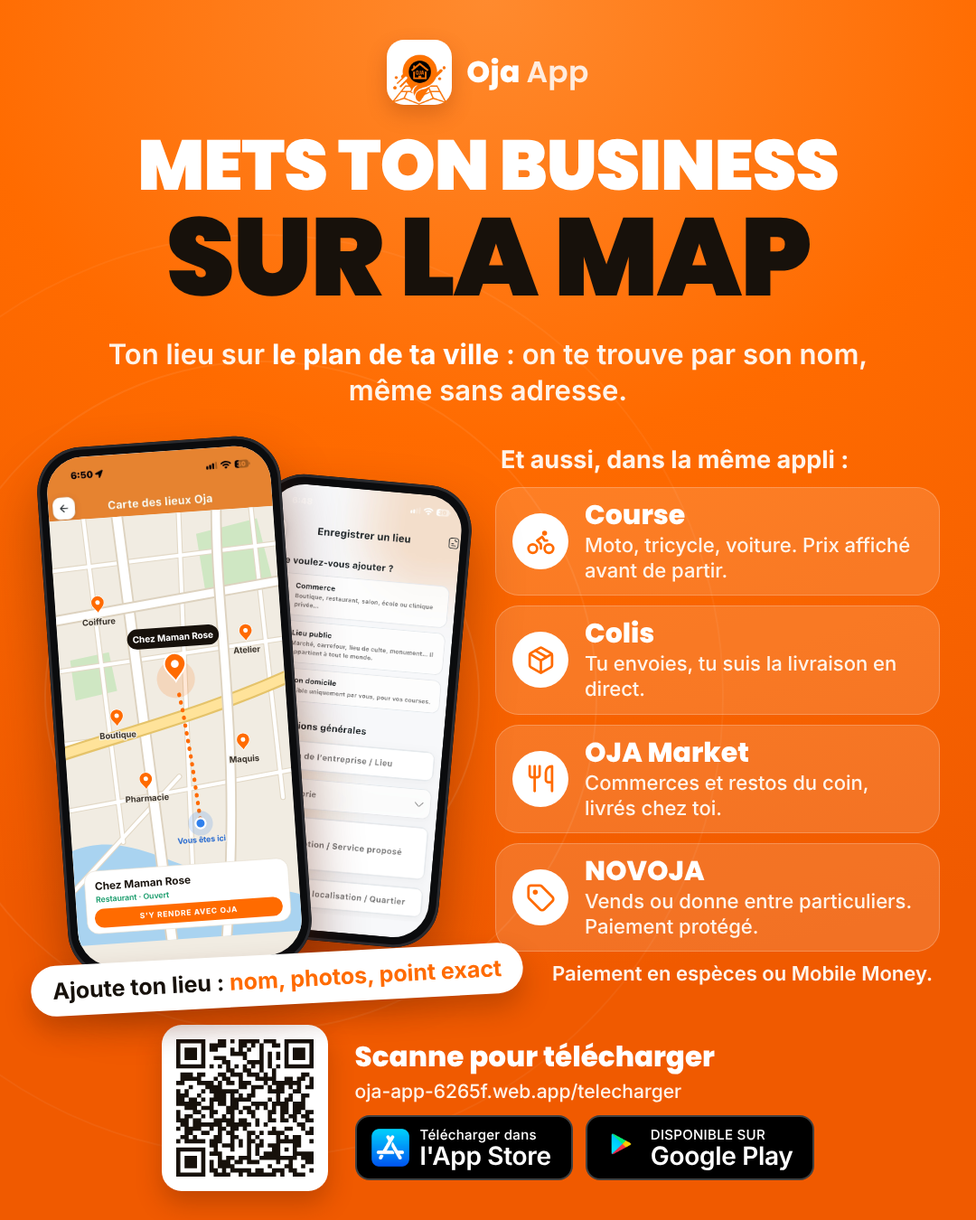
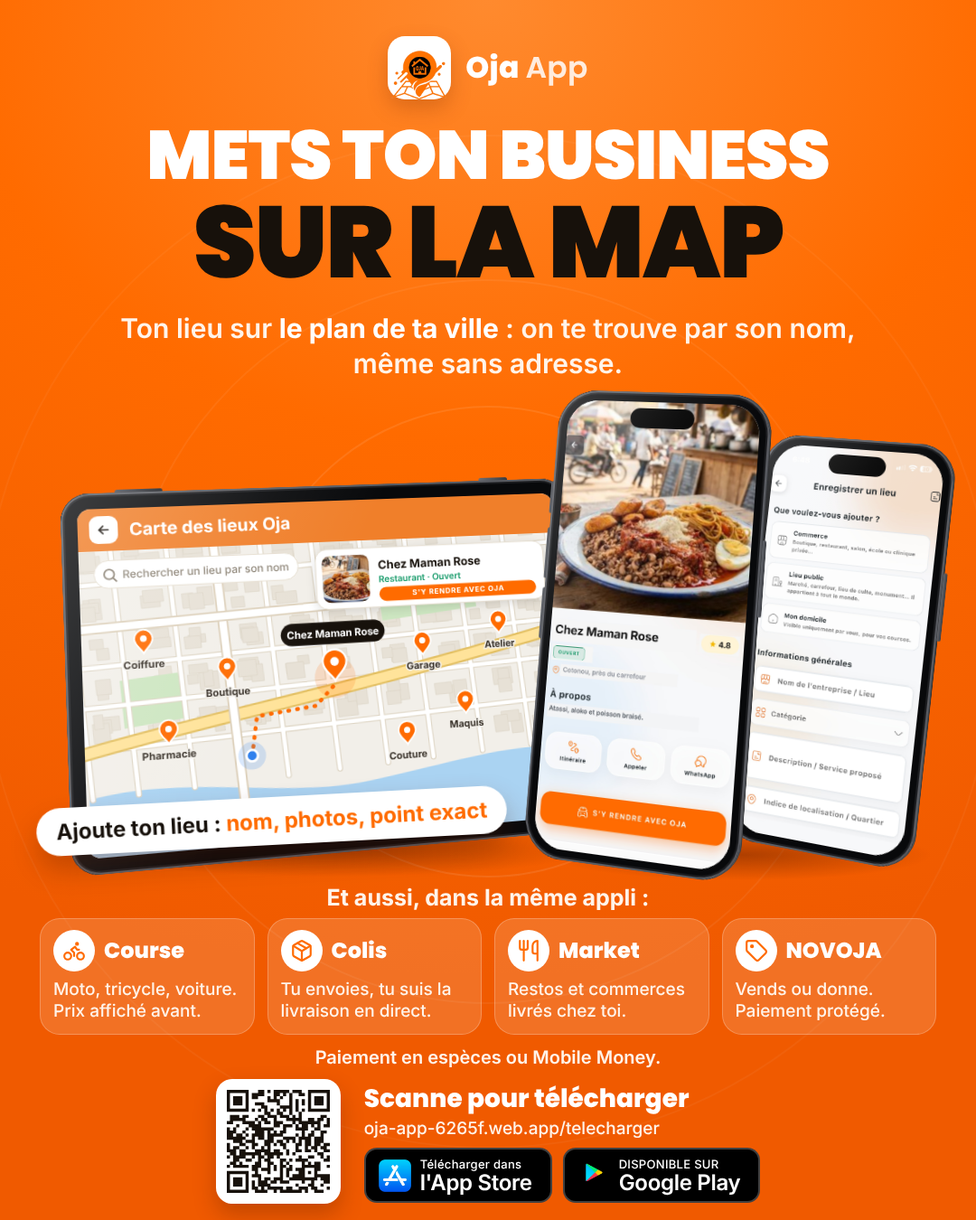
Pub Facebook : vrais écrans sur les téléphones, appareils en 3D, tablette avec la map, titre « sur la map » et QR code
Claude-Session: https://claude.ai/code/session_013hXBLf1amJ3CRzgYm5RBGS

diff --git a/motion/pub_facebook.html b/motion/pub_facebook.html
@@ -3,14 +3,16 @@
 <link rel="stylesheet" href="fonts/local.css">
 <style>
 /* Facebook / Instagram ad for Oja App, after the « Griokids » ad Derrick sent: flat brand colour, logo, one big line,
-   the app on real phones, store badges. A real layout, not a generated picture: real logo, real screens, real type.
+   the app on real devices, store badges. A real layout, not a generated picture: real logo, real screens, real type.
    Derrick, 9 Nov 2026:
-   - every feature must be understood, and putting yourself on the map always comes FIRST;
-   - « carte » alone is unclear: it must be obvious that it is the MAP. So the headline says « sur la map », the line under it
-     « le plan de ta ville », and the front phone shows the real « Carte des lieux Oja » screen (its header) over a drawn
-     street map: roads, lagoon, pins with fictitious place names, « Vous êtes ici », the way to « Chez Maman Rose »;
+   - every feature must be understood; putting yourself on the map always comes FIRST;
+   - « carte » alone is unclear: the headline says « sur la map », the line under it « le plan de ta ville », and the tablet
+     shows the map (drawn: streets, lagoon, pins with fictitious place names, « Vous êtes ici », the way to « Chez Maman Rose »);
+   - the phones keep the real screens he preferred: the place card « Chez Maman Rose » (fictitious) and « Enregistrer un lieu »;
+   - phones and tablet must feel like real 3D devices: tilted in perspective, with a body you can see (stacked layers),
+     a metal rim, side buttons, a glass reflection and a shadow on the ground;
    - a QR code to https://oja-app-6265f.web.app/telecharger (pubs/qr_telecharger.svg, made with segno, checked by decoding).
-   Both rules are in marketing/kit/09-regles-et-mentions.md.
+   The rules are in marketing/kit/09-regles-et-mentions.md.
    #feed = 1080 x 1350 (4:5, news feed), #story = 1080 x 1920 (9:16: the same block, below the top 250 px, above the bottom 340 px).
    Built by src/pub_facebook_build.js. */
 :root { --or: #FF6B00; --or2: #F05A00; --ink: #17110B; --cream: #FFF4EA; }
@@ -24,125 +26,111 @@ body.story .ad { height: 1920px; }
 body.story .block { top: 250px; }
 svg.bg { position: absolute; left: 0; top: 0; width: 1080px; height: 1330px; }
 /* header */
-.brand { position: absolute; top: 34px; left: 0; right: 0; display: flex; justify-content: center; align-items: center; gap: 16px; }
-.icon { width: 72px; height: 72px; border-radius: 19px; background: #fff; display: grid; place-items: center; box-shadow: 0 10px 22px rgba(120, 40, 0, .25); }
+.brand { position: absolute; top: 30px; left: 0; right: 0; display: flex; justify-content: center; align-items: center; gap: 16px; }
+.icon { width: 70px; height: 70px; border-radius: 19px; background: #fff; display: grid; place-items: center; box-shadow: 0 10px 22px rgba(120, 40, 0, .25); }
 .icon img { width: 118%; height: 118%; object-fit: contain; margin-top: 6%; }
 .brand b { font: 800 33px 'Poppins'; letter-spacing: .3px; }
 .brand b span { font-weight: 600; opacity: .85; }
-h1 { position: absolute; top: 134px; left: 0; right: 0; text-align: center; font: 900 78px/1 'Poppins'; letter-spacing: -1.2px; text-transform: uppercase; }
-h1 .dark { display: block; color: var(--ink); font-size: 122px; letter-spacing: -2px; margin-top: 2px; }
-.sub { position: absolute; top: 362px; left: 100px; right: 100px; text-align: center; font: 600 31px/1.3 'Inter'; color: var(--cream); }
+h1 { position: absolute; top: 124px; left: 0; right: 0; text-align: center; font: 900 76px/1 'Poppins'; letter-spacing: -1.2px; text-transform: uppercase; }
+h1 .dark { display: block; color: var(--ink); font-size: 112px; letter-spacing: -2px; margin-top: 2px; }
+.sub { position: absolute; top: 334px; left: 100px; right: 100px; text-align: center; font: 600 30px/1.3 'Inter'; color: var(--cream); }
 .sub b { color: #fff; font-weight: 800; }
-/* the map feature: the map screen in front, « Enregistrer un lieu » behind */
-.phone { position: absolute; border-radius: 50px; background: #0B0C0E; padding: 11px; box-shadow: 0 34px 60px rgba(90, 25, 0, .45), 0 0 0 3px #2A2B2F inset; }
-.phone > img, .phone .screen { display: block; width: 100%; height: 100%; object-fit: cover; object-position: top; border-radius: 40px; overflow: hidden; }
-.screen { background: #F1ECE2; position: relative; }
-.screen img { display: block; width: 100%; }
-.screen svg { display: block; width: 100%; }
-.p1 { left: 58px; top: 478px; width: 270px; height: 587px; transform: rotate(-4deg); z-index: 2; }
-.p2 { left: 268px; top: 520px; width: 236px; height: 513px; transform: rotate(5deg); z-index: 1; }
-.tag { position: absolute; left: 34px; top: 1046px; z-index: 3; background: #fff; color: var(--ink); border-radius: 999px; padding: 13px 24px;
-  font: 700 25px 'Inter'; white-space: nowrap; transform: rotate(-3deg); box-shadow: 0 16px 30px rgba(90, 25, 0, .3); }
+
+/* ---------- the devices, in 3D ---------- */
+.stage { position: absolute; left: 0; top: 422px; width: 1080px; height: 540px; perspective: 1700px; perspective-origin: 560px 120px; }
+.dev { position: absolute; transform-style: preserve-3d; }
+.dev .layer { position: absolute; inset: 0; border-radius: inherit; }
+.dev .front { position: absolute; inset: 0; border-radius: inherit; background: #08090B; overflow: hidden;
+  box-shadow: inset 0 0 0 2px #5A5C62, inset 0 0 0 4px #1B1C1F; }
+.dev .scr { position: absolute; overflow: hidden; background: #F2EFE9; }
+.dev .scr > img { display: block; width: 100%; height: 100%; object-fit: cover; object-position: top; }
+.dev .glare { position: absolute; inset: 0; border-radius: inherit; pointer-events: none;
+  background: linear-gradient(118deg, rgba(255, 255, 255, .22) 0%, rgba(255, 255, 255, .06) 30%, rgba(255, 255, 255, 0) 46%); }
+.dev .island { position: absolute; left: 50%; top: 18px; width: 30%; height: 22px; margin-left: -15%; border-radius: 12px; background: #000; }
+.dev .btn { position: absolute; width: 5px; border-radius: 3px; background: linear-gradient(90deg, #6B6E75, #3A3C41); }
+.ground { position: absolute; border-radius: 50%; background: radial-gradient(closest-side, rgba(80, 22, 0, .42), rgba(80, 22, 0, 0)); }
+/* the tablet (landscape) */
+.tab { left: 84px; top: 104px; width: 566px; height: 404px; border-radius: 30px; transform: rotateY(14deg) rotateX(7deg) rotateZ(-2deg); }
+.tab .scr { left: 17px; top: 17px; right: 17px; bottom: 17px; border-radius: 14px; }
+/* the phones */
+.ph1 { left: 606px; top: 6px; width: 238px; height: 516px; border-radius: 44px; transform: rotateY(-20deg) rotateX(6deg) rotateZ(3deg) translateZ(40px); }
+.ph2 { left: 820px; top: 52px; width: 212px; height: 460px; border-radius: 40px; transform: rotateY(-26deg) rotateX(6deg) rotateZ(5deg); }
+.ph1 .scr, .ph2 .scr { left: 11px; top: 11px; right: 11px; bottom: 11px; border-radius: 34px; }
+/* the map in the tablet */
+.mapbar { position: absolute; left: 0; right: 0; top: 0; height: 46px; background: #F07F2A; display: flex; align-items: center; gap: 12px; padding: 0 12px; }
+.mapbar i { width: 30px; height: 30px; border-radius: 9px; background: #fff; display: grid; place-items: center; }
+.mapbar b { font: 700 19px 'Inter'; color: #fff; }
+.tab svg.map { position: absolute; left: 0; top: 46px; width: 532px; height: 324px; }
+.tag { position: absolute; left: 40px; top: 872px; z-index: 5; background: #fff; color: var(--ink); border-radius: 999px; padding: 12px 22px;
+  font: 700 24px 'Inter'; white-space: nowrap; transform: rotate(-3deg); box-shadow: 0 16px 30px rgba(90, 25, 0, .3); }
 .tag em { font-style: normal; color: var(--or); }
-/* the other services */
-.more { position: absolute; left: 548px; top: 482px; width: 492px; }
-.more h2 { font: 700 27px 'Inter'; color: var(--cream); margin: 0 0 14px 6px; }
-.svc { display: flex; align-items: center; gap: 18px; background: rgba(255, 255, 255, .14); border: 1.5px solid rgba(255, 255, 255, .22);
-  border-radius: 26px; padding: 13px 18px; margin-bottom: 11px; }
-.svc i { width: 62px; height: 62px; border-radius: 50%; background: #fff; display: grid; place-items: center; flex: none; }
-.svc svg { width: 33px; height: 33px; stroke: var(--or); fill: none; stroke-width: 2; stroke-linecap: round; stroke-linejoin: round; }
-.svc b { display: block; font: 800 30px/1.1 'Poppins'; }
-.svc span { display: block; margin-top: 3px; font: 500 22px/1.28 'Inter'; color: var(--cream); }
-.pay { margin: 2px 8px 0 0; text-align: right; font: 600 22px 'Inter'; color: var(--cream); }
-/* download: QR code + store badges */
-.dl { position: absolute; left: 0; right: 0; top: 1124px; display: flex; justify-content: center; align-items: center; gap: 30px; }
-.qr { width: 184px; height: 184px; background: #fff; border-radius: 22px; padding: 16px; box-shadow: 0 14px 28px rgba(90, 25, 0, .3); }
+
+/* ---------- the other services, in a row ---------- */
+.more h2 { position: absolute; left: 0; right: 0; top: 968px; text-align: center; font: 700 25px 'Inter'; color: var(--cream); }
+.svcs { position: absolute; left: 44px; right: 44px; top: 1006px; display: grid; grid-template-columns: repeat(4, 1fr); gap: 14px; }
+.svc { background: rgba(255, 255, 255, .14); border: 1.5px solid rgba(255, 255, 255, .24); border-radius: 22px; padding: 12px 14px 13px; }
+.svc .t { display: flex; align-items: center; gap: 10px; }
+.svc i { width: 46px; height: 46px; border-radius: 50%; background: #fff; display: grid; place-items: center; flex: none; }
+.svc svg { width: 26px; height: 26px; stroke: var(--or); fill: none; stroke-width: 2; stroke-linecap: round; stroke-linejoin: round; }
+.svc b { font: 800 24px/1.05 'Poppins'; }
+.svc span { display: block; margin-top: 8px; font: 500 19px/1.25 'Inter'; color: var(--cream); }
+.pay { position: absolute; left: 0; right: 0; top: 1148px; text-align: center; font: 600 20px 'Inter'; color: var(--cream); }
+
+/* ---------- download: QR code + store badges ---------- */
+.dl { position: absolute; left: 0; right: 0; top: 1184px; display: flex; justify-content: center; align-items: center; gap: 26px; }
+.qr { width: 138px; height: 138px; background: #fff; border-radius: 18px; padding: 12px; box-shadow: 0 12px 24px rgba(90, 25, 0, .3); }
 .qr img { display: block; width: 100%; height: 100%; }
-.dl h3 { font: 800 31px 'Poppins'; }
-.dl p { font: 500 21px 'Inter'; color: var(--cream); margin: 2px 0 14px; }
-.stores { display: flex; gap: 14px; }
-.badge { display: flex; align-items: center; gap: 12px; background: #000; border-radius: 16px; padding: 10px 22px 10px 16px; border: 2px solid rgba(255, 255, 255, .25); }
-.badge img { width: 42px; height: 42px; }
-.badge small { display: block; font: 500 15px 'Inter'; letter-spacing: .3px; }
-.badge b { display: block; font: 600 28px/1.05 'Inter'; letter-spacing: -.3px; }
+.dl h3 { font: 800 28px 'Poppins'; }
+.dl p { font: 500 19px 'Inter'; color: var(--cream); margin: 0 0 10px; }
+.stores { display: flex; gap: 12px; }
+.badge { display: flex; align-items: center; gap: 10px; background: #000; border-radius: 14px; padding: 8px 20px 8px 14px; border: 2px solid rgba(255, 255, 255, .25); }
+.badge img { width: 36px; height: 36px; }
+.badge small { display: block; font: 500 13px 'Inter'; letter-spacing: .3px; }
+.badge b { display: block; font: 600 24px/1.05 'Inter'; letter-spacing: -.3px; }
 </style></head>
 <body>
 <div class="ad"><div class="block">
   <svg class="bg" viewBox="0 0 1080 1330" aria-hidden="true">
     <g fill="none" stroke="#fff">
-      <circle cx="290" cy="760" r="240" stroke-opacity=".10" stroke-width="2"/>
-      <circle cx="290" cy="760" r="370" stroke-opacity=".07" stroke-width="2"/>
-      <circle cx="290" cy="760" r="510" stroke-opacity=".05" stroke-width="2"/>
+      <circle cx="540" cy="700" r="260" stroke-opacity=".09" stroke-width="2"/>
+      <circle cx="540" cy="700" r="400" stroke-opacity=".06" stroke-width="2"/>
+      <circle cx="540" cy="700" r="560" stroke-opacity=".045" stroke-width="2"/>
     </g>
   </svg>
   <div class="brand"><div class="icon"><img src="../video1/assets/logo-oja-carte.png" alt=""></div><b>Oja <span>App</span></b></div>
   <h1>Mets ton business<span class="dark">sur la map</span></h1>
   <p class="sub">Ton lieu sur <b>le plan de ta ville</b> : on te trouve par son nom, même sans adresse.</p>
 
-  <div class="phone p2"><img src="../video3/assets/app/ajout.jpg" alt=""></div>
-  <div class="phone p1"><div class="screen">
-    <img src="pubs/carte_entete.jpg" alt="">
-    <!-- a drawn street map (fictitious places), in place of the real map, which shows other people's businesses -->
-    <svg viewBox="0 0 400 760" aria-hidden="true">
-      <rect width="400" height="760" fill="#F1ECE2"/>
-      <path d="M260 40 l110 -20 l20 110 l-120 20z" fill="#CFE7C3"/>
-      <path d="M20 250 l70 -10 l10 70 l-75 12z" fill="#CFE7C3"/>
-      <path d="M0 590 C 90 560, 160 620, 250 650 S 400 690, 410 700 L410 770 L0 770Z" fill="#A9D3F0"/>
-      <text x="40" y="722" font-family="Inter" font-style="italic" font-size="17" fill="#5C8EBA">Lagune</text>
-      <g fill="none" stroke-linecap="round">
-        <g stroke="#E2D8C6" stroke-width="10">
-          <path d="M-20 270 L420 236"/><path d="M-20 520 L420 470"/><path d="M60 -20 L92 580"/><path d="M232 -20 L212 640"/>
-          <path d="M360 -20 L382 520"/><path d="M-20 90 L420 66"/><path d="M0 660 L200 470"/><path d="M-20 400 L130 392"/>
-        </g>
-        <g stroke="#FFFFFF" stroke-width="6.5">
-          <path d="M-20 270 L420 236"/><path d="M-20 520 L420 470"/><path d="M60 -20 L92 580"/><path d="M232 -20 L212 640"/>
-          <path d="M360 -20 L382 520"/><path d="M-20 90 L420 66"/><path d="M0 660 L200 470"/><path d="M-20 400 L130 392"/>
-        </g>
-        <path d="M120 -20 L168 780" stroke="#DDD2BF" stroke-width="22"/><path d="M120 -20 L168 780" stroke="#FFFFFF" stroke-width="16"/>
-        <path d="M-20 180 L420 132" stroke="#DDD2BF" stroke-width="20"/><path d="M-20 180 L420 132" stroke="#FFFFFF" stroke-width="14"/>
-        <path d="M-20 420 C 120 384, 260 360, 420 300" stroke="#E5C36A" stroke-width="24"/><path d="M-20 420 C 120 384, 260 360, 420 300" stroke="#FFE39A" stroke-width="17"/>
-        <path d="M300 -20 C 282 200, 318 400, 262 780" stroke="#DDD2BF" stroke-width="20"/><path d="M300 -20 C 282 200, 318 400, 262 780" stroke="#FFFFFF" stroke-width="14"/>
-        <!-- the way from « Vous êtes ici » to the place -->
-        <path d="M232 548 L224 446 L214 352 L208 312" stroke="#FF6B00" stroke-width="7" stroke-dasharray="1 13"/>
-      </g>
-      <g font-family="Inter" font-weight="700" font-size="15" fill="#3A332B" stroke="#F1ECE2" stroke-width="4" paint-order="stroke" text-anchor="middle">
-        <g transform="translate(76 168)"><path d="M0 0c-3-6-11-10-11-18a11 11 0 0 1 22 0c0 8-8 12-11 18z" fill="#FF6B00" stroke="#fff" stroke-width="2"/><circle cy="-18" r="4" fill="#fff" stroke="none"/><text y="22">Coiffure</text></g>
-        <g transform="translate(336 236)"><path d="M0 0c-3-6-11-10-11-18a11 11 0 0 1 22 0c0 8-8 12-11 18z" fill="#FF6B00" stroke="#fff" stroke-width="2"/><circle cy="-18" r="4" fill="#fff" stroke="none"/><text y="22">Atelier</text></g>
-        <g transform="translate(96 372)"><path d="M0 0c-3-6-11-10-11-18a11 11 0 0 1 22 0c0 8-8 12-11 18z" fill="#FF6B00" stroke="#fff" stroke-width="2"/><circle cy="-18" r="4" fill="#fff" stroke="none"/><text y="22">Boutique</text></g>
-        <g transform="translate(318 430)"><path d="M0 0c-3-6-11-10-11-18a11 11 0 0 1 22 0c0 8-8 12-11 18z" fill="#FF6B00" stroke="#fff" stroke-width="2"/><circle cy="-18" r="4" fill="#fff" stroke="none"/><text y="22">Maquis</text></g>
-        <g transform="translate(140 488)"><path d="M0 0c-3-6-11-10-11-18a11 11 0 0 1 22 0c0 8-8 12-11 18z" fill="#FF6B00" stroke="#fff" stroke-width="2"/><circle cy="-18" r="4" fill="#fff" stroke="none"/><text y="22">Pharmacie</text></g>
-      </g>
-      <!-- the place, selected -->
-      <g transform="translate(206 300)">
-        <circle cy="-4" r="34" fill="#FF6B00" opacity=".16"/>
-        <path d="M0 0c-5-10-19-17-19-31a19 19 0 0 1 38 0c0 14-14 21-19 31z" fill="#FF6B00" stroke="#fff" stroke-width="3"/><circle cy="-31" r="7" fill="#fff"/>
-        <g transform="translate(0 -78)"><rect x="-82" y="-19" width="164" height="36" rx="18" fill="#17110B"/><text y="5" text-anchor="middle" font-family="Inter" font-weight="700" font-size="16" fill="#fff">Chez Maman Rose</text></g>
-      </g>
-      <!-- you are here -->
-      <circle cx="232" cy="556" r="22" fill="#2F80ED" opacity=".18"/><circle cx="232" cy="556" r="9" fill="#2F80ED" stroke="#fff" stroke-width="3.5"/>
-      <text x="232" y="590" text-anchor="middle" font-family="Inter" font-weight="700" font-size="14" fill="#2F6FD0" stroke="#F1ECE2" stroke-width="4" paint-order="stroke">Vous êtes ici</text>
-      <!-- the place card -->
-      <g transform="translate(18 628)">
-        <rect width="364" height="112" rx="20" fill="#fff" stroke="#E6DED0"/>
-        <text x="18" y="34" font-family="Inter" font-weight="800" font-size="19" fill="#17110B">Chez Maman Rose</text>
-        <text x="18" y="56" font-family="Inter" font-weight="600" font-size="14" fill="#159A69">Restaurant · Ouvert</text>
-        <rect x="14" y="68" width="336" height="34" rx="17" fill="#FF6B00"/>
-        <text x="182" y="90" text-anchor="middle" font-family="Inter" font-weight="800" font-size="13.5" letter-spacing="1.2" fill="#fff">S'Y RENDRE AVEC OJA</text>
-      </g>
-    </svg>
-  </div></div>
+  <div class="stage">
+    <div class="ground" style="left:90px; top:478px; width:560px; height:60px"></div>
+    <div class="ground" style="left:610px; top:486px; width:420px; height:56px"></div>
+    <div class="dev tab" data-depth="11">
+      <div class="front"><div class="scr">
+        <div class="mapbar"><i><svg width="16" height="16" viewBox="0 0 24 24" fill="none" stroke="#17110B" stroke-width="2.6" stroke-linecap="round"><path d="M19 12H5m6-6-6 6 6 6"/></svg></i><b>Carte des lieux Oja</b></div>
+        <svg class="map" id="map" viewBox="0 0 600 370"></svg>
+      </div><div class="glare"></div></div>
+    </div>
+    <div class="dev ph2" data-depth="9">
+      <div class="front"><div class="scr"><img src="../video3/assets/app/ajout.jpg" alt=""></div><div class="island"></div><div class="glare"></div></div>
+    </div>
+    <div class="dev ph1" data-depth="10">
+      <div class="front"><div class="scr"><img src="../video3/assets/app/fiche.jpg" alt=""></div><div class="island"></div><div class="glare"></div></div>
+    </div>
+  </div>
   <div class="tag">Ajoute ton lieu : <em>nom, photos, point exact</em></div>
 
   <div class="more">
     <h2>Et aussi, dans la même appli :</h2>
-    <div class="svc"><i><svg viewBox="0 0 24 24"><circle cx="5.5" cy="17.5" r="3.5"/><circle cx="18.5" cy="17.5" r="3.5"/><path d="M15 6a1 1 0 1 0 0-2 1 1 0 0 0 0 2zm-3 11.5V14l-3-3 4-3 2 3h2"/></svg></i>
-      <div><b>Course</b><span>Moto, tricycle, voiture. Prix affiché avant de partir.</span></div></div>
-    <div class="svc"><i><svg viewBox="0 0 24 24"><path d="M11 21.73a2 2 0 0 0 2 0l7-4A2 2 0 0 0 21 16V8a2 2 0 0 0-1-1.73l-7-4a2 2 0 0 0-2 0l-7 4A2 2 0 0 0 3 8v8a2 2 0 0 0 1 1.73z"/><path d="M12 22V12"/><path d="m3.3 7 7.703 4.734a2 2 0 0 0 1.994 0L20.7 7"/><path d="m7.5 4.27 9 5.15"/></svg></i>
-      <div><b>Colis</b><span>Tu envoies, tu suis la livraison en direct.</span></div></div>
-    <div class="svc"><i><svg viewBox="0 0 24 24"><path d="M3 2v7c0 1.1.9 2 2 2h4a2 2 0 0 0 2-2V2"/><path d="M7 2v20"/><path d="M21 15V2a5 5 0 0 0-5 5v6c0 1.1.9 2 2 2h3Zm0 0v7"/></svg></i>
-      <div><b>OJA Market</b><span>Commerces et restos du coin, livrés chez toi.</span></div></div>
-    <div class="svc"><i><svg viewBox="0 0 24 24"><path d="M12.586 2.586A2 2 0 0 0 11.172 2H4a2 2 0 0 0-2 2v7.172a2 2 0 0 0 .586 1.414l8.704 8.704a2.426 2.426 0 0 0 3.42 0l6.58-6.58a2.426 2.426 0 0 0 0-3.42z"/><circle cx="7.5" cy="7.5" r="1"/></svg></i>
-      <div><b>NOVOJA</b><span>Vends ou donne entre particuliers. Paiement protégé.</span></div></div>
+    <div class="svcs">
+      <div class="svc"><div class="t"><i><svg viewBox="0 0 24 24"><circle cx="5.5" cy="17.5" r="3.5"/><circle cx="18.5" cy="17.5" r="3.5"/><path d="M15 6a1 1 0 1 0 0-2 1 1 0 0 0 0 2zm-3 11.5V14l-3-3 4-3 2 3h2"/></svg></i><b>Course</b></div>
+        <span>Moto, tricycle, voiture. Prix affiché avant.</span></div>
+      <div class="svc"><div class="t"><i><svg viewBox="0 0 24 24"><path d="M11 21.73a2 2 0 0 0 2 0l7-4A2 2 0 0 0 21 16V8a2 2 0 0 0-1-1.73l-7-4a2 2 0 0 0-2 0l-7 4A2 2 0 0 0 3 8v8a2 2 0 0 0 1 1.73z"/><path d="M12 22V12"/><path d="m3.3 7 7.703 4.734a2 2 0 0 0 1.994 0L20.7 7"/><path d="m7.5 4.27 9 5.15"/></svg></i><b>Colis</b></div>
+        <span>Tu envoies, tu suis la livraison en direct.</span></div>
+      <div class="svc"><div class="t"><i><svg viewBox="0 0 24 24"><path d="M3 2v7c0 1.1.9 2 2 2h4a2 2 0 0 0 2-2V2"/><path d="M7 2v20"/><path d="M21 15V2a5 5 0 0 0-5 5v6c0 1.1.9 2 2 2h3Zm0 0v7"/></svg></i><b>Market</b></div>
+        <span>Restos et commerces livrés chez toi.</span></div>
+      <div class="svc"><div class="t"><i><svg viewBox="0 0 24 24"><path d="M12.586 2.586A2 2 0 0 0 11.172 2H4a2 2 0 0 0-2 2v7.172a2 2 0 0 0 .586 1.414l8.704 8.704a2.426 2.426 0 0 0 3.42 0l6.58-6.58a2.426 2.426 0 0 0 0-3.42z"/><circle cx="7.5" cy="7.5" r="1"/></svg></i><b>NOVOJA</b></div>
+        <span>Vends ou donne. Paiement protégé.</span></div>
+    </div>
     <p class="pay">Paiement en espèces ou Mobile Money.</p>
   </div>
 
@@ -158,5 +146,89 @@ h1 .dark { display: block; color: var(--ink); font-size: 122px; letter-spacing: 
     </div>
   </div>
 </div></div>
-<script>if (location.hash === '#story') document.body.classList.add('story');</script>
+<script>
+if (location.hash === '#story') document.body.classList.add('story');
+
+/* ---- 3D bodies: the device shape stacked backwards, 1 px a layer, metal colours; side buttons on the body ---- */
+document.querySelectorAll('.dev').forEach(dev => {
+  const n = +dev.dataset.depth, phone = !dev.classList.contains('tab');
+  for (let i = n; i >= 1; i--) {
+    const l = document.createElement('div'); l.className = 'layer'; const k = i / n;
+    l.style.transform = `translateZ(${-i}px)`;
+    l.style.background = `linear-gradient(135deg, hsl(220,4%,${46 - 22 * k}%), hsl(220,5%,${30 - 16 * k}%) 60%, hsl(220,4%,${40 - 18 * k}%))`;
+    dev.insertBefore(l, dev.firstChild);
+  }
+  const H = dev.offsetHeight;
+  const btns = phone ? [[-4, .2, .07], [-4, .3, .11], [-4, .43, .11], [dev.offsetWidth - 1, .3, .16]] : [[dev.offsetWidth * .1, -4, .09, true], [dev.offsetWidth * .82, -4, .06, true]];
+  for (const [x, y, len, top] of btns) {
+    const b = document.createElement('div'); b.className = 'btn';
+    if (top) { Object.assign(b.style, { left: x + 'px', top: y + 'px', width: dev.offsetWidth * len + 'px', height: '5px' }); }
+    else { Object.assign(b.style, { left: x + 'px', top: H * y + 'px', height: H * len + 'px' }); }
+    b.style.transform = `translateZ(${-n / 2}px)`; dev.insertBefore(b, dev.firstChild);
+  }
+});
+
+/* ---- the map (drawn; fictitious places): streets with buildings, lagoon, parks, pins, you are here, the place card ---- */
+(() => {
+  const S = document.getElementById('map'), NS = 'http://www.w3.org/2000/svg', W = 600, H = 370;   // drawn in 600 x 370, shown at 532 x 324
+  const el = (t, a, p = S) => { const e = document.createElementNS(NS, t); for (const k in a) e.setAttribute(k, a[k]); p.appendChild(e); return e; };
+  let seed = 7; const r = () => (seed = (seed * 16807) % 2147483647) / 2147483647;
+  el('rect', { width: W, height: H, fill: '#F2EFE9' });
+  const water = 'M0 300 C 120 278, 230 318, 340 304 S 520 270, 610 280 L610 380 L0 380Z';
+  // streets: a slightly tilted grid
+  const xs = [], ys = []; for (let x = -20; x < W + 40; x += 54 + r() * 14) xs.push(x); for (let y = -10; y < H; y += 44 + r() * 12) ys.push(y);
+  const X = (x, y) => x + y * .08, Y = (x, y) => y - x * .05;
+  // buildings in each block
+  const bg = el('g', { fill: '#E7E1D6', stroke: '#DDD5C7', 'stroke-width': .8 });
+  for (let i = 0; i < xs.length - 1; i++) for (let j = 0; j < ys.length - 1; j++) {
+    const x0 = xs[i] + 7, x1 = xs[i + 1] - 7, y0 = ys[j] + 7, y1 = ys[j + 1] - 7; if (Y(x0, y1) > 268) continue;
+    const n = 2 + Math.floor(r() * 3);
+    for (let k = 0; k < n; k++) { const w = (x1 - x0) * (.25 + r() * .3), h = (y1 - y0) * (.3 + r() * .35), bx = x0 + r() * (x1 - x0 - w), by = y0 + r() * (y1 - y0 - h);
+      el('polygon', { points: [[bx, by], [bx + w, by], [bx + w, by + h], [bx, by + h]].map(([a, b]) => `${X(a, b).toFixed(1)},${Y(a, b).toFixed(1)}`).join(' ') }, bg); }
+  }
+  el('path', { d: 'M360 20 l120 -10 l12 82 l-124 12z', fill: '#CDE6C1' }); el('path', { d: 'M40 160 l70 -6 l6 56 l-72 8z', fill: '#CDE6C1' });
+  el('path', { d: water, fill: '#AAD3F2' });
+  el('text', { x: 300, y: 344, 'font-family': 'Inter', 'font-style': 'italic', 'font-size': 14, fill: '#5C8EBA' }).textContent = 'Lagune';
+  const line = (pts, w, c, p) => el('polyline', { points: pts.map(([a, b]) => `${X(a, b).toFixed(1)},${Y(a, b).toFixed(1)}`).join(' '), fill: 'none', stroke: c, 'stroke-width': w, 'stroke-linecap': 'round', 'stroke-linejoin': 'round' }, p);
+  const minor = el('g', {});
+  for (const x of xs) { line([[x, -20], [x, 300]], 7.5, '#DED5C4', minor); }
+  for (const y of ys) if (y < 290) line([[-40, y], [W + 40, y]], 7.5, '#DED5C4', minor);
+  for (const x of xs) line([[x, -20], [x, 300]], 5, '#FFFFFF', minor);
+  for (const y of ys) if (y < 290) line([[-40, y], [W + 40, y]], 5, '#FFFFFF', minor);
+  // main roads: one big avenue (yellow) and two boulevards
+  el('path', { d: 'M-20 250 C 150 210, 330 190, 620 120', fill: 'none', stroke: '#E3C064', 'stroke-width': 17 }); el('path', { d: 'M-20 250 C 150 210, 330 190, 620 120', fill: 'none', stroke: '#FFE39A', 'stroke-width': 12 });
+  line([[xs[3], -20], [xs[3], 320]], 13, '#DCCFB9'); line([[xs[3], -20], [xs[3], 320]], 9, '#FFFFFF');
+  line([[-40, ys[2]], [W + 40, ys[2]]], 13, '#DCCFB9'); line([[-40, ys[2]], [W + 40, ys[2]]], 9, '#FFFFFF');
+  // search
+  el('rect', { x: 14, y: 12, width: 250, height: 34, rx: 17, fill: '#fff', stroke: '#E3DBCD' });
+  el('circle', { cx: 32, cy: 29, r: 6, fill: 'none', stroke: '#8A8173', 'stroke-width': 2 }); el('path', { d: 'M36.5 33.5l4 4', stroke: '#8A8173', 'stroke-width': 2, 'stroke-linecap': 'round' });
+  el('text', { x: 48, y: 34, 'font-family': 'Inter', 'font-weight': 500, 'font-size': 13.5, fill: '#8A8173' }).textContent = 'Rechercher un lieu par son nom';
+  // pins
+  const pin = (x, y, label, s = 1) => { const g = el('g', { transform: `translate(${x} ${y}) scale(${s})` });
+    el('path', { d: 'M0 0c-3-6-11-10-11-18a11 11 0 0 1 22 0c0 8-8 12-11 18z', fill: '#FF6B00', stroke: '#fff', 'stroke-width': 2 }, g); el('circle', { cy: -18, r: 4, fill: '#fff' }, g);
+    if (label) { const t = el('text', { y: 18, 'text-anchor': 'middle', 'font-family': 'Inter', 'font-weight': 700, 'font-size': 12.5, fill: '#3A332B', stroke: '#F2EFE9', 'stroke-width': 3.5, 'paint-order': 'stroke' }, g); t.textContent = label; } };
+  [[70, 128, 'Coiffure'], [520, 128, 'Atelier'], [170, 168, 'Boutique'], [470, 228, 'Maquis'], [96, 240, 'Pharmacie'], [418, 150, 'Garage'], [392, 262, 'Couture']].forEach(p => pin(...p));
+  // you are here and the way to the place
+  const me = [196, 262], to = [304, 176];
+  el('path', { d: `M${me[0]} ${me[1]} L${me[0] + 8} 214 L${to[0] - 26} 206 L${to[0]} ${to[1] + 4}`, fill: 'none', stroke: '#FF6B00', 'stroke-width': 5, 'stroke-dasharray': '1 10', 'stroke-linecap': 'round' });
+  el('circle', { cx: me[0], cy: me[1], r: 17, fill: '#2F80ED', opacity: .18 }); el('circle', { cx: me[0], cy: me[1], r: 7, fill: '#2F80ED', stroke: '#fff', 'stroke-width': 3 });
+  const g = el('g', { transform: `translate(${to[0]} ${to[1]})` });
+  el('circle', { cy: -4, r: 26, fill: '#FF6B00', opacity: .16 }, g);
+  el('path', { d: 'M0 0c-4-8-15-13-15-24a15 15 0 0 1 30 0c0 11-11 16-15 24z', fill: '#FF6B00', stroke: '#fff', 'stroke-width': 2.5 }, g); el('circle', { cy: -24, r: 5.5, fill: '#fff' }, g);
+  el('rect', { x: -66, y: -74, width: 132, height: 28, rx: 14, fill: '#17110B' }, g);
+  const tt = el('text', { y: -55, 'text-anchor': 'middle', 'font-family': 'Inter', 'font-weight': 700, 'font-size': 13, fill: '#fff' }, g); tt.textContent = 'Chez Maman Rose';
+  // the place card
+  const c = el('g', { transform: 'translate(286 10)' });
+  el('rect', { width: 300, height: 76, rx: 14, fill: '#fff', stroke: '#E3DBCD', filter: 'drop-shadow(0 3px 6px rgba(0,0,0,.12))' }, c);
+  el('clipPath', { id: 'cp' }, c).appendChild(Object.assign(document.createElementNS(NS, 'rect'), {})).setAttribute('x', 8);
+  const cp = c.querySelector('#cp rect'); cp.setAttribute('y', 8); cp.setAttribute('width', 60); cp.setAttribute('height', 60); cp.setAttribute('rx', 10);
+  el('image', { href: 'pubs/plat_fiche.jpg', x: -4, y: 8, width: 84, height: 66, 'clip-path': 'url(#cp)', preserveAspectRatio: 'xMidYMid slice' }, c);
+  el('text', { x: 80, y: 28, 'font-family': 'Inter', 'font-weight': 800, 'font-size': 15, fill: '#17110B' }, c).textContent = 'Chez Maman Rose';
+  el('text', { x: 80, y: 45, 'font-family': 'Inter', 'font-weight': 600, 'font-size': 11.5, fill: '#159A69' }, c).textContent = 'Restaurant · Ouvert';
+  el('rect', { x: 80, y: 51, width: 208, height: 18, rx: 9, fill: '#FF6B00' }, c);
+  el('text', { x: 184, y: 63.5, 'text-anchor': 'middle', 'font-family': 'Inter', 'font-weight': 800, 'font-size': 9.5, 'letter-spacing': .8, fill: '#fff' }, c).textContent = "S'Y RENDRE AVEC OJA";
+  // locate button
+  el('circle', { cx: 572, cy: 336, r: 17, fill: '#fff', stroke: '#E3DBCD' }); el('circle', { cx: 572, cy: 336, r: 5, fill: '#2F80ED' });
+})();
+</script>
 </body></html>

diff --git a/motion/README.md b/motion/README.md
@@ -1091,29 +1091,33 @@ La musique est un groove afro-house à 104 BPM, avec un tic-tac au début et des
 
 ## OJA — Pub Facebook / Instagram « Mets ton business sur la map » (image)
 
-Image publicitaire pour lancer Oja App sur Facebook et Instagram. Elle s'inspire de la pub « Griokids » envoyée par Derrick : couleur de marque en aplat, logo, une grande phrase, l'appli sur de vrais téléphones et les logos des stores.
+Image publicitaire pour lancer Oja App sur Facebook et Instagram. Elle s'inspire de la pub « Griokids » envoyée par Derrick : couleur de marque en aplat, logo, une grande phrase, l'appli sur une tablette et des téléphones, et les logos des stores.
 
 C'est une vraie mise en page, pas une image générée par IA : vrai logo, vrais écrans de l'appli, vraie typographie.
 
 Consignes de Derrick (9 novembre 2026), reprises dans `marketing/kit/09-regles-et-mentions.md` :
 - on doit comprendre toutes les fonctions ;
 - se mettre sur la map passe toujours en premier ;
-- on doit voir tout de suite qu'il s'agit de la map, pas d'une « carte » au sens flou ;
+- on doit voir tout de suite qu'il s'agit de la map ;
+- garder les vrais écrans sur les téléphones ;
+- des appareils en 3D, et une tablette en plus ;
 - un QR code vers https://oja-app-6265f.web.app/telecharger.
 
 **Contenu de l'image :**
 - **En premier, la map :**
   - le titre « Mets ton business sur la map » ;
   - la phrase « Ton lieu sur le plan de ta ville : on te trouve par son nom, même sans adresse. » ;
-  - au premier plan, le vrai écran « Carte des lieux Oja ». Son en-tête vient de `video3/assets/app/carte1.jpg` ; la map est dessinée par-dessus, parce que la vraie map montre les commerces d'autres personnes. On y voit des rues, une lagune, des épingles (Coiffure, Atelier, Boutique, Maquis, Pharmacie), « Vous êtes ici », le chemin jusqu'à « Chez Maman Rose » (lieu fictif) et sa fiche avec « S'y rendre avec OJA » ;
-  - derrière, l'écran « Enregistrer un lieu » (`ajout.jpg`) ;
+  - une tablette qui affiche « Carte des lieux Oja ». La map est dessinée, parce que la vraie map montre les commerces d'autres personnes. On y voit des rues avec des bâtiments, une lagune, des épingles (Coiffure, Atelier, Boutique, Maquis, Pharmacie, Garage, Couture), la recherche « Rechercher un lieu par son nom », « Vous êtes ici », le chemin jusqu'à « Chez Maman Rose » (lieu fictif) et sa fiche avec « S'y rendre avec OJA » ;
+  - deux téléphones avec les vrais écrans : la fiche « Chez Maman Rose » (`video3/assets/app/fiche.jpg`) et « Enregistrer un lieu » (`ajout.jpg`) ;
   - la pastille « Ajoute ton lieu : nom, photos, point exact ».
-- **Puis, sous « Et aussi, dans la même appli » :**
+- **Les appareils en 3D :** perspective CSS et corps visible (la forme de l'appareil empilée sur 9 à 11 px), avec tranche métallique, boutons, encoche, reflet sur la vitre et ombre au sol.
+- **Puis, sous « Et aussi, dans la même appli », quatre cases :**
   - Course : moto, tricycle, voiture, prix affiché avant de partir ;
   - Colis : suivi en direct ;
-  - OJA Market : commerces et restos livrés ;
-  - NOVOJA : vendre ou donner, paiement protégé ;
-  - « Paiement en espèces ou Mobile Money ».
+  - Market : restos et commerces livrés ;
+  - NOVOJA : vendre ou donner, paiement protégé.
+
+  Dessous : « Paiement en espèces ou Mobile Money ».
 - **En bas :**
   - le QR code (`pubs/qr_telecharger.svg`, fait avec segno) ;
   - « Scanne pour télécharger » et le lien en clair ;
